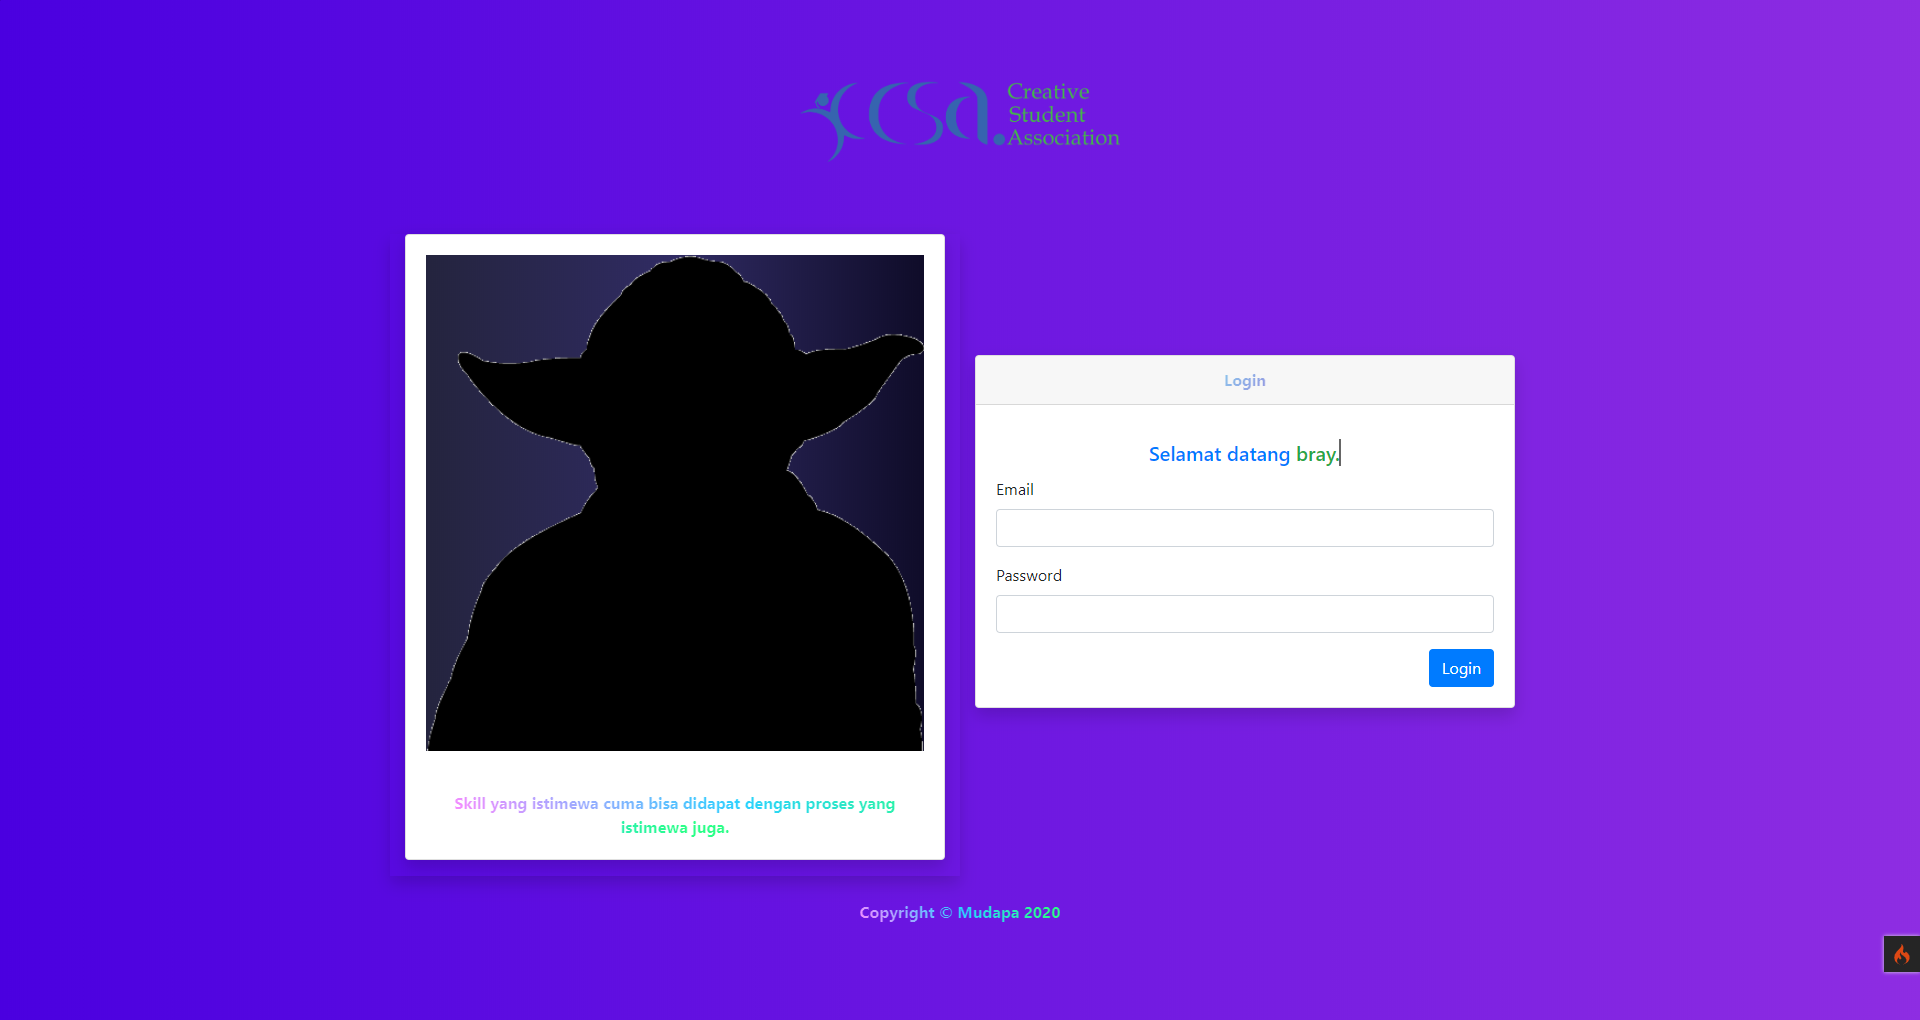
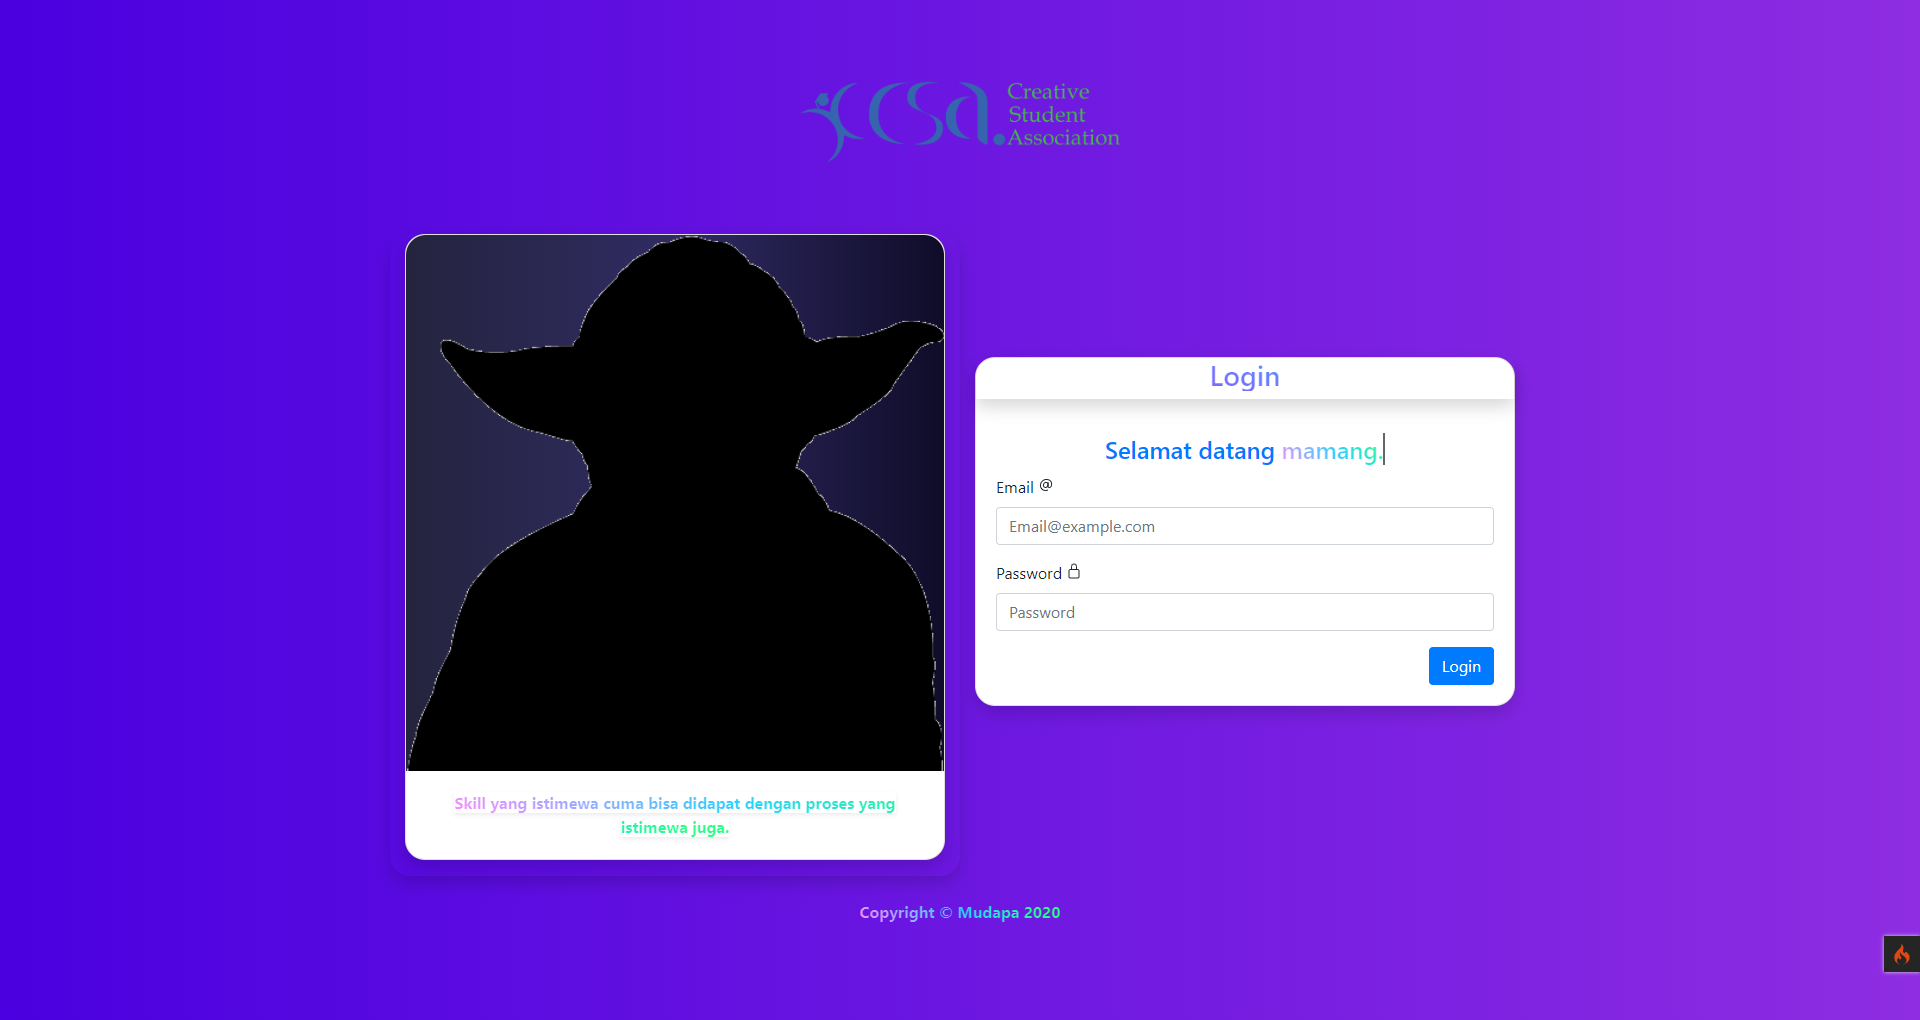
update tampilan admin

diff --git a/public/css/custom.css b/public/css/custom.css
@@ -18,6 +18,25 @@ body {
   height: 100%;
 }
 
+.navlog {
+  max-width: 100px;
+  max-height: 100px;
+}
+
+.navbg {
+  background: #141e30; /* fallback for old browsers */
+  background: -webkit-linear-gradient(
+    to right,
+    #243b55,
+    #141e30
+  ); /* Chrome 10-25, Safari 5.1-6 */
+  background: linear-gradient(
+    to right,
+    #243b55,
+    #141e30
+  ); /* W3C, IE 10+/ Edge, Firefox 16+, Chrome 26+, Opera 12+, Safari 7+ */
+}
+
 .test {
   width: 50%;
 }
@@ -56,6 +75,11 @@ body {
     #302b63,
     #0f0c29
   ); /* W3C, IE 10+/ Edge, Firefox 16+, Chrome 26+, Opera 12+, Safari 7+ */
+}
+
+.casi {
+  max-width: 500px;
+  height: 250px;
 }
 
 /* radius top */

diff --git a/app/Views/admin/dashboard/dashboard_v.php b/app/Views/admin/dashboard/dashboard_v.php
@@ -1,0 +1,45 @@
+<?= $this->extend('layout/frame'); ?>
+<?= $this->section('content'); ?>
+<div class="container py-2">
+  <div class="row">
+    <div class="col">
+      <?= $this->include('layout/navbar'); ?>
+    </div>
+  </div>
+  <div class="row py-3">
+    <?php foreach ($role as $x => $value) { ?>
+      <div class="col px-5">
+        <div class="card" style="width: 18rem;">
+          <img src="img/yoda.png" class="card-img-top" alt="...">
+          <div class="card-body text-center navbg">
+            <b class="card-text bient"><?= $value['nama_role'] ?></b>
+          </div>
+        </div>
+      </div>
+    <?php } ?>
+  </div>
+  <div class="row px-2">
+    <div class="col">
+      <div class="card text-center">
+        <div class="card-header navbg">
+          <b class="bient">Content</b>
+        </div>
+        <div class="card-body">
+          <h5>Lorem ipsum dolor sit amet consectetur adipisicing elit. Debitis, maxime laudantium. Officia natus cum quas sapiente, odio asperiores quia, nulla delectus deserunt nisi doloremque, temporibus in. Sapiente tempore repellendus iusto.</h5>
+        </div>
+        <div class="card-body">
+          <hr width="50%">
+          <h4>Lorem ipsum dolor sit amet consectetur adipisicing elit. Debitis, eveniet. Molestiae blanditiis fugiat repellendus vel nihil amet, itaque perspiciatis inventore aut dolor laboriosam ipsa, optio voluptatum aliquam minus ratione? Dolorem.</h4>
+        </div>
+        <div class="card-body">
+          <hr width="50%">
+          <h3>Lorem ipsum dolor sit amet consectetur adipisicing elit. Debitis, eveniet. Molestiae blanditiis fugiat repellendus vel nihil amet, itaque perspiciatis inventore aut dolor laboriosam ipsa, optio voluptatum aliquam minus ratione? Dolorem.</h3>
+        </div>
+        <div class="card-footer text-muted navbg">
+          <b class="bient">Copyright &copy; Mudapa 2020</b>
+        </div>
+      </div>
+    </div>
+  </div>
+</div>
+<?= $this->endSection(); ?>

diff --git a/app/Views/layout/navbar.php b/app/Views/layout/navbar.php
@@ -1,0 +1,21 @@
+<nav class="navbar navbar-expand-lg navbar-light navbg shadow rounded-pill">
+  <a class="navbar-brand" href="#"><img src="img/Logo.png" alt="Logo" class="navlog"></a>
+  <button class="navbar-toggler" type="button" data-toggle="collapse" data-target="#navbarNav" aria-controls="navbarNav" aria-expanded="false" aria-label="Toggle navigation">
+    <span class="navbar-toggler-icon"></span>
+  </button>
+  <div class="collapse navbar-collapse" id="navbarNav">
+    <ul class="navbar-nav bient">
+      <li class="nav-item">
+        <a class="nav-link" href="/admin"><b>Home</b></a>
+      </li>
+    </ul>
+  </div>
+  <div class="nav-item dropdown">
+    <?php $user = session()->get('username'); { ?>
+      <a class="nav-link dropdown-toggle" style="margin-right:40px;" href="#" id="navbarDropdown" role="button" data-toggle="dropdown" aria-haspopup="true" aria-expanded="false"><b class="bient"><?= $user; ?></b></a>
+    <?php } ?>
+    <div class="dropdown-menu navbg" aria-labelledby="navbarDropdown" style="margin-top: 8px;margin-left: -15px;">
+      <a class="dropdown-item text-center" href="/logout"><b class="text-danger">Logout</b></a>
+    </div>
+  </div>
+</nav>

diff --git a/app/Config/Routes.php b/app/Config/Routes.php
@@ -17,7 +17,7 @@ if (file_exists(SYSTEMPATH . 'Config/Routes.php')) {
  * --------------------------------------------------------------------
  */
 $routes->setDefaultNamespace('App\Controllers');
-$routes->setDefaultController('Auth');
+$routes->setDefaultController('View');
 $routes->setDefaultMethod('index');
 $routes->setTranslateURIDashes(false);
 $routes->set404Override();
@@ -31,11 +31,14 @@ $routes->setAutoRoute(true);
 
 // We get a performance increase by specifying the default
 // route since we don't have to scan directories.
-$routes->get('/', 'Auth::index');
-$routes->post('login/isloggin', 'Login::isloggin');
+$routes->get('/', 'View::index');
 
+$routes->post('login/isloggin', 'Login::isloggin');
 $routes->get('/logout', 'Login::logout');
 
+$routes->group('/', ['filter' => 'auth'], function ($routes) {
+	$routes->get('admin', 'View::admin');
+});
 /**
  * --------------------------------------------------------------------
  * Additional Routing

diff --git a/app/Views/template/js/js.php b/app/Views/template/js/js.php
@@ -1,3 +1,6 @@
+<script src="https://code.jquery.com/jquery-3.5.1.slim.min.js" integrity="sha384-DfXdz2htPH0lsSSs5nCTpuj/zy4C+OGpamoFVy38MVBnE+IbbVYUew+OrCXaRkfj" crossorigin="anonymous"></script>
+<script src="https://cdn.jsdelivr.net/npm/popper.js@1.16.0/dist/umd/popper.min.js" integrity="sha384-Q6E9RHvbIyZFJoft+2mJbHaEWldlvI9IOYy5n3zV9zzTtmI3UksdQRVvoxMfooAo" crossorigin="anonymous"></script>
+<script src="https://stackpath.bootstrapcdn.com/bootstrap/4.5.0/js/bootstrap.min.js" integrity="sha384-OgVRvuATP1z7JjHLkuOU7Xw704+h835Lr+6QL9UvYjZE3Ipu6Tp75j7Bh/kR0JKI" crossorigin="anonymous"></script>
 <script src="js/custom.js"></script>
 <script src="https://unpkg.com/ionicons@5.0.0/dist/ionicons.js"></script>
 <script>

diff --git a/app/Filters/Filter.php b/app/Filters/Filter.php
@@ -1,0 +1,24 @@
+<?php
+
+namespace App\Filters;
+
+use CodeIgniter\HTTP\RequestInterface;
+use CodeIgniter\HTTP\ResponseInterface;
+use CodeIgniter\Filters\FilterInterface;
+
+class Filter implements FilterInterface
+{
+  public function before(RequestInterface $request, $arguments = null)
+  {
+    if (!session('role')) {
+      return redirect()->to('/');
+    }
+  }
+
+  //--------------------------------------------------------------------
+
+  public function after(RequestInterface $request, ResponseInterface $response, $arguments = null)
+  {
+    // Do something here
+  }
+}

diff --git a/app/Views/auth/Login.php b/app/Views/auth/Login.php
@@ -9,9 +9,9 @@
   <div class="row py-2">
     <div class="col align-self-end shadow rd-full">
       <div class="card text-center mb-3 shadow rd-full">
-        <div class="card-body">
-          <img src="img/yoda.png" class="d-block w-100 yoda rd" alt="yoda">
-        </div>
+
+        <img src="img/yoda.png" class="card-img-top yoda rd" alt="yoda">
+
         <div class="card-body">
           <p class="card-text"><b class="bient shadow-sm">Skill yang istimewa cuma bisa didapat dengan proses yang istimewa juga.</b></p>
         </div>

diff --git a/app/Config/Filters.php b/app/Config/Filters.php
@@ -1,4 +1,6 @@
-<?php namespace Config;
+<?php
+
+namespace Config;
 
 use CodeIgniter\Config\BaseConfig;
 
@@ -10,6 +12,7 @@ class Filters extends BaseConfig
 		'csrf'     => \CodeIgniter\Filters\CSRF::class,
 		'toolbar'  => \CodeIgniter\Filters\DebugToolbar::class,
 		'honeypot' => \CodeIgniter\Filters\Honeypot::class,
+		'auth'	=> \App\Filters\Filter::class,
 	];
 
 	// Always applied before every request

diff --git a/app/Controllers/Login.php b/app/Controllers/Login.php
@@ -19,7 +19,7 @@ class Login extends BaseController
         session()->set('role', $cek_login['role']);
         if (session()->get('role') == 1) {
           // login admin
-          echo 'admin';
+          return redirect()->to('/admin');
         } elseif (session()->get('role') == 2) {
           // login dosen
           echo 'dosen';

diff --git a/app/Controllers/View.php b/app/Controllers/View.php
@@ -1,0 +1,19 @@
+<?php
+
+namespace App\Controllers;
+
+class View extends BaseController
+{
+	public function index()
+	{
+		return view('auth/login');
+	}
+
+	public function admin()
+	{
+		$data = [
+			'role' => $this->userModel->role()
+		];
+		return view('admin/dashboard/dashboard_v', $data);
+	}
+}

diff --git a/app/Models/UserModel.php b/app/Models/UserModel.php
@@ -16,4 +16,10 @@ class UserModel extends Model
       ->get()
       ->getRowArray();
   }
+
+  public function role()
+  {
+    return $this->db->table('role')
+      ->get()->getResultArray();
+  }
 }
